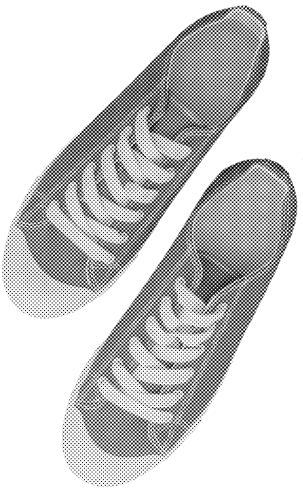
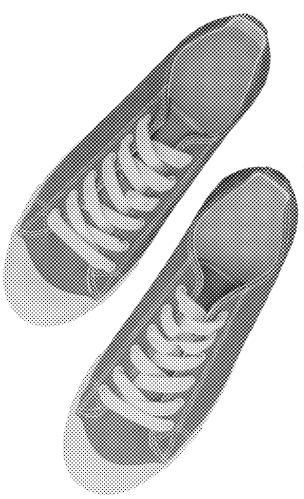
Update responsive

diff --git a/app/assets/src/sass/pages/index/_step.sass b/app/assets/src/sass/pages/index/_step.sass
@@ -12,34 +12,35 @@
 		+a()
 		z-index: -1
 		&_1
-			top: 35%
 			+max(sm)
-				left: -5%
-				max-width: 100px
+				top: 7%
+				left: -2%
+				max-width: 80px
+				z-index: 2
 			+min(sm)
 				left: -2%
 				top: 35%
 				+w(220px)
 
 		&_2
-			top: 24%
-			right: -10%
-			+w(120px)
+			top: 23%
+			right: -5%
+			+w(90px)
 			+min(sm)
 				top: 10%
 				right: 5%
 				+w(220px)
 
 		&_3
-			bottom: 7%
+			bottom: 9%
 			right: -5%
-			+w(120px)
+			+w(170px)
 			+min(md)
 				bottom: 2%
 				+w(450px)
 
 	&__items
-		+mb(100px)
+		+mb(160px)
 
 		+max(sm)
 			max-width: 270px
@@ -80,12 +81,13 @@
 
 		&__header
 			+max(sm)
-				+mr(15px)
+				+mr(20px)
 
 		&__body
 			+r()
 			z-index: 1
 			+max(sm)
+				+fs(10px)
 				max-width: 150px
 				br
 					display: none
@@ -96,7 +98,7 @@
 			+ai(center)
 			+jc(center)
 			+bgc($color-white)
-			+size(75px)
+			+size(65px)
 			transform: skew(-15deg) rotate(-15deg)
 			z-index: 1
 
@@ -127,8 +129,69 @@
 				+bgi('../img/step-item-sun.png')
 				z-index: -1
 				+size(250px)
+				+max(sm)
+					opacity: 0.7
 				+min(md)
 					+size(400px)
+
+		+max(sm)
+
+			&:before
+				+pseudo()
+				+bgi('../img/line.png')
+				+size(2px, 180px)
+
+			&_1
+				&:before
+					top: 0px
+					left: 140px
+					transform: rotate(125deg)
+
+			&_2
+				&:before
+					top: 0
+					left: 125px
+					transform: rotate(60deg)
+
+			&_3
+				&:before
+					top: 0
+					left: 150px
+					transform: rotate(-55deg)
+
+			&_4
+				&:before
+					top: 0
+					left: 135px
+					transform: rotate(55deg)
+
+			&_5
+				&:before
+					top: 0
+					left: 130px
+					transform: rotate(-50deg)
+
+			&_6
+				&:before
+					top: 20px
+					left: 95px
+					transform: rotate(45deg)
+
+			&_7
+				&:before
+					top: 8px
+					left: 145px
+					transform: rotate(-56deg)
+
+			&_8
+				&:before
+					top: 10px
+					left: 115px
+					transform: rotate(66deg)
+
+			&_9
+				&:before
+					+d(none)
 
 		+min(md)
 
@@ -225,3 +288,9 @@
 
 			&__body
 				+my(45px, 0)
+
+	&__footer
+		&-button
+			+max(sm)
+				+w(100%)
+				max-width: 270px

diff --git a/app/assets/src/sass/pages/index/_available.sass b/app/assets/src/sass/pages/index/_available.sass
@@ -19,33 +19,45 @@
 			+pr(45px)
 
 		&-arrow
-			+a(0, 0)
-			+size(27px, 15px)
+			+a(3px, 0)
+			+size(15px, 8px)
 			+bgi('../img/available-arrow.png')
 			transform: scaleY(-1)
+			+min(sm)
+				+t(0)
+				+size(27px, 15px)
 
 		&.active &-arrow
 			transform: none
 
 		&-image
 			+a(0, null, null, 0)
-			+h(30px)
-			max-width: 30px
+			+h(20px)
+			max-width: 20px
 			object-fit: contain
+			+min(sm)
+				+h(30px)
+				max-width: 30px
 			+min(md)
 				+t(-10px)
 				+h(50px)
 
 		&-header,
 		&-body
-			+pl(45px)
+			+pl(30px)
+			+min(sm)
+				+pl(45px)
 			+min(md)
 				+pl(60px)
 
 		&-title
-			+fw(900)
+			+fw(700)
+
+			+max(sm)
+				+fs(11px)
 			
 			+min(sm)
+				+fw(900)
 				+fs(14px)
 
 			+min(md)

diff --git a/app/assets/src/sass/layouts/footer/_footer.sass b/app/assets/src/sass/layouts/footer/_footer.sass
@@ -10,6 +10,8 @@
 
 	&__logo
 		max-height: 60px
+		+max(sm)
+			+mb(15px)
 
 	&__content
 		border-bottom: 1px solid #dfdfdf
@@ -23,7 +25,7 @@
 				+ta(right)
 
 	&__menu
-		+mb(20px)
+		+mb(15px)
 		li
 			+d(inline-block)
 			+offset('r', 10px)
@@ -69,3 +71,4 @@
 
 	a
 		+c($color-brand-1)
+		text-decoration: none

diff --git a/app/assets/src/sass/pages/index/_payment.sass b/app/assets/src/sass/pages/index/_payment.sass
@@ -14,6 +14,9 @@
 			+pl(20px)
 			&:after
 				+l(0)
-				+t(-2px)
-				+size(16px, 28px)
+				+t(0)
+				+size(10px, 18px)
 				+bgi('../img/payment-icon.png')
+				+min(sm)
+					+t(-2px)
+					+size(16px, 28px)

diff --git a/app/assets/src/sass/pages/index/_participation.sass b/app/assets/src/sass/pages/index/_participation.sass
@@ -9,3 +9,9 @@
 	&__timer
 		.timer_item
 			border-color: $color-white
+
+	&__title
+		+max(sm)
+			+fs(16px)
+			br
+				+d(none)
